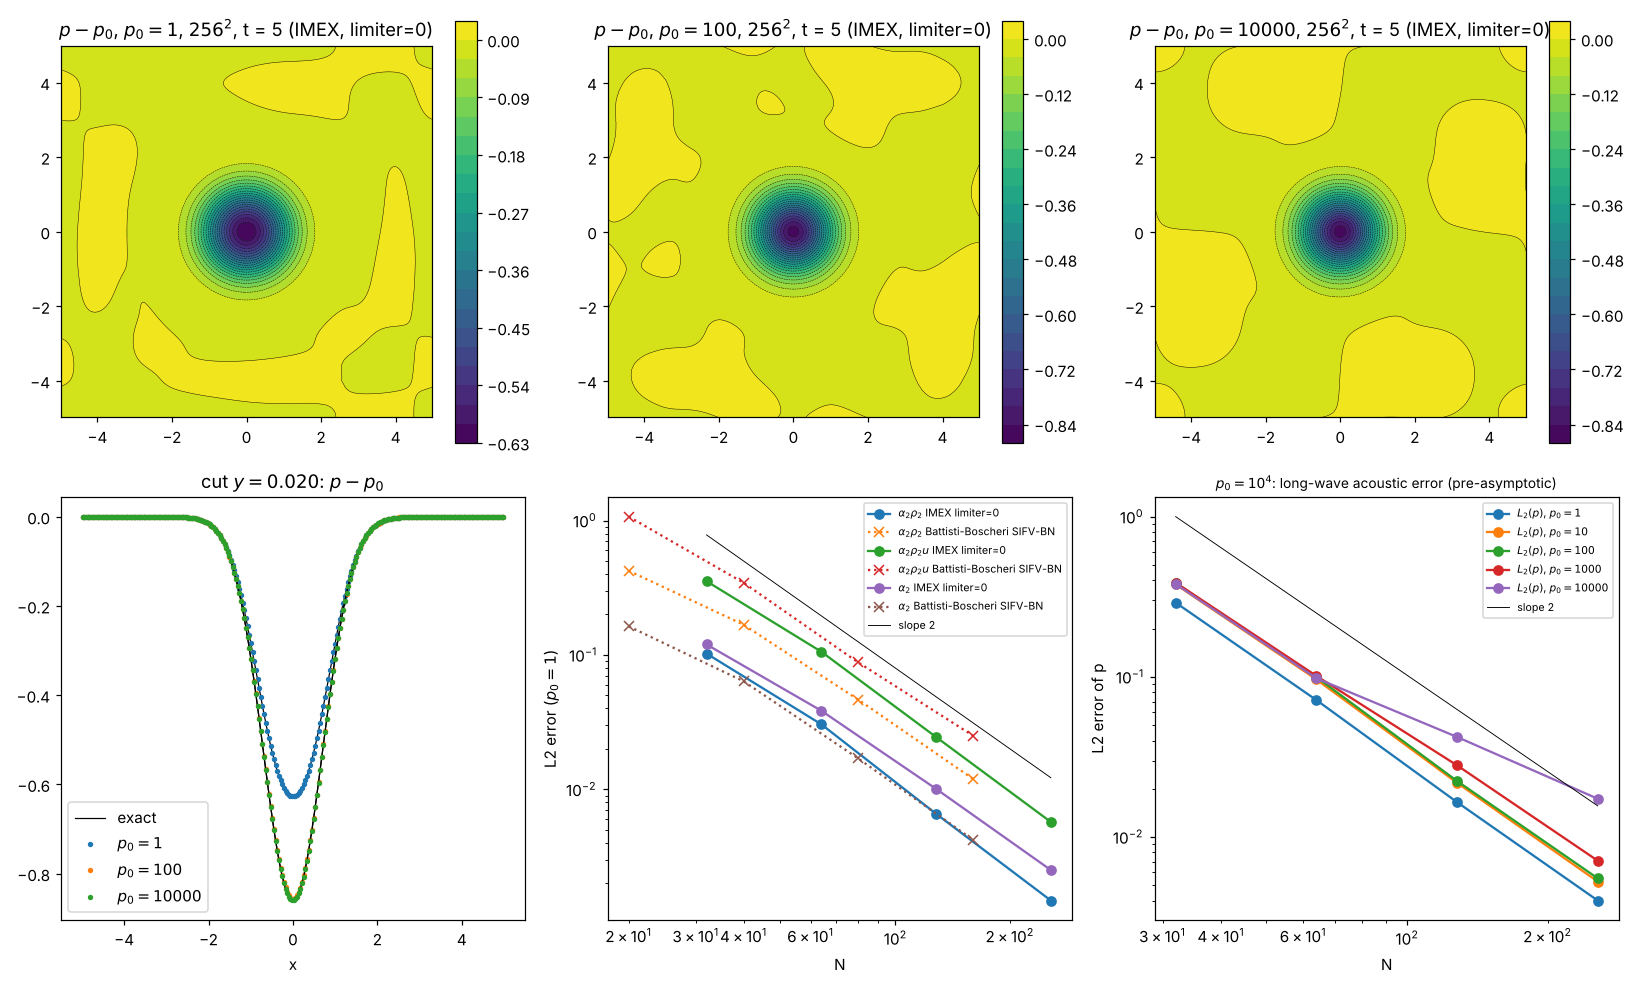
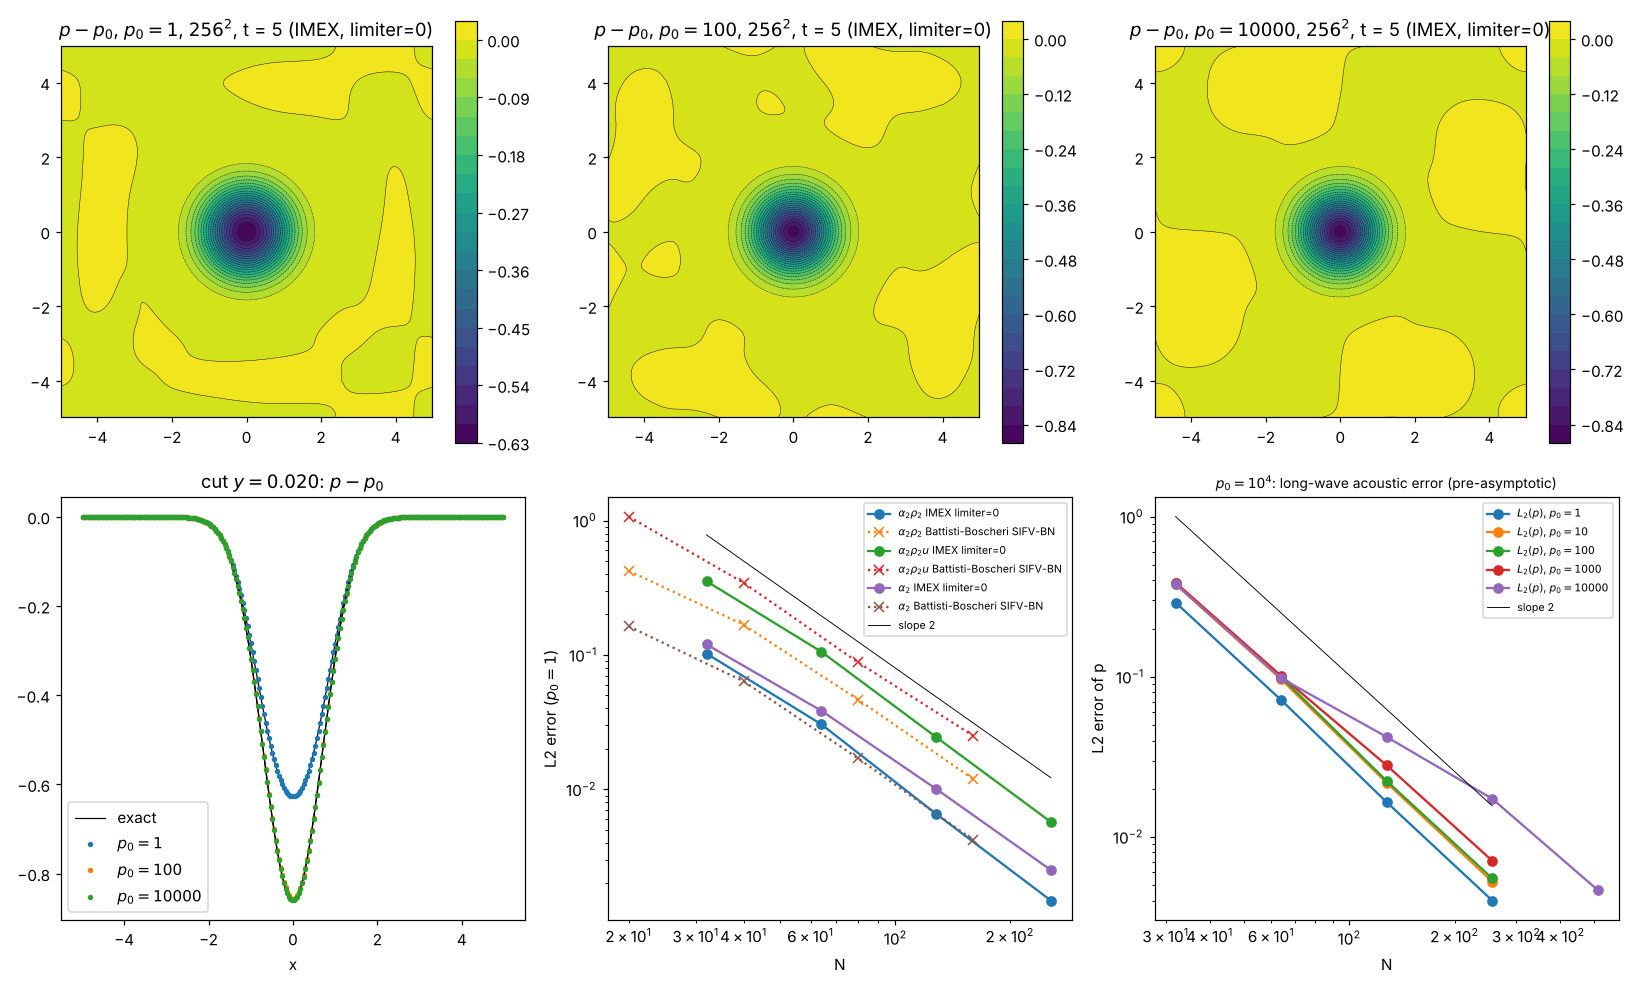
devlog V15: vortex convergence table incl. N=512 (p0=1e4 pressure order 1.89)
Claude-Session: https://claude.ai/code/session_01S1n65tsz3avypBq5vvRFNT

diff --git a/docs/devlog.md b/docs/devlog.md
@@ -1213,8 +1213,33 @@ AP 照旧（$M\to0$ 时解收敛，与 $M$ 无关）；动能保持率与 $u_\th
   - 一维存档：除 Pelanti 8.2.2 $pTg$ 外与 V14 的差别在 $10^{-5}$ 以下；8.2.2 $pTg$ 在 $t=77\,\mu$s 处 6 次拒绝（某级的 Newton 初猜在一格上不可容许，第 0 次迭代即失败，V14 的轨迹没有走到这里），平台误差 0.1985 → 0.2006。
   - 灵感来源：分段光滑方程组的 active-set（primal–dual active set，Hintermüller–Ito–Kunisch 2002）；闭合类型 `S.type` 本来就按级冻结。
 
-### 15.3 结果（最终代码，`limiter=0`）
-⟨表在 15.5⟩
+### 15.3 结果（最终代码 46c8002，`limiter=0`；所有算例 0 次拒绝、0 个 MOOD 步）
+| p0 | N | L2(a2r2) | ord | L2(a2r2u) | ord | L2(a2) | ord | L2(p) | ord | L2(u) | ord | steps |
+|---|---|---|---|---|---|---|---|---|---|---|---|---|
+| 1 | 32 | 1.0231e-01 | – | 3.5335e-01 | – | 1.1965e-01 | – | 2.9043e-01 | – | 4.4581e-01 | – | 428 |
+| 1 | 64 | 3.0466e-02 | 1.75 | 1.0563e-01 | 1.74 | 3.8441e-02 | 1.64 | 7.1578e-02 | 2.02 | 1.2892e-01 | 1.79 | 887 |
+| 1 | 128 | 6.5788e-03 | 2.21 | 2.4500e-02 | 2.11 | 1.0084e-02 | 1.93 | 1.6484e-02 | 2.12 | 3.2675e-02 | 1.98 | 1787 |
+| 1 | 256 | 1.4896e-03 | 2.14 | 5.7211e-03 | 2.10 | 2.5105e-03 | 2.01 | 4.0075e-03 | 2.04 | 8.1824e-03 | 2.00 | 3578 |
+| 10 | 32 | 9.5898e-02 | – | 3.9716e-01 | – | 1.1356e-01 | – | 3.7739e-01 | – | 4.5066e-01 | – | 429 |
+| 10 | 64 | 2.9969e-02 | 1.68 | 1.2178e-01 | 1.71 | 3.4799e-02 | 1.71 | 9.6298e-02 | 1.97 | 1.3165e-01 | 1.78 | 887 |
+| 10 | 128 | 7.9726e-03 | 1.91 | 3.0720e-02 | 1.99 | 9.1609e-03 | 1.93 | 2.1768e-02 | 2.15 | 3.3170e-02 | 1.99 | 1787 |
+| 10 | 256 | 2.0274e-03 | 1.98 | 7.5899e-03 | 2.02 | 2.3235e-03 | 1.98 | 5.2658e-03 | 2.05 | 8.2825e-03 | 2.00 | 3578 |
+| 100 | 32 | 1.1158e-01 | – | 4.1737e-01 | – | 1.1342e-01 | – | 3.8481e-01 | – | 4.4845e-01 | – | 431 |
+| 100 | 64 | 3.4271e-02 | 1.70 | 1.2763e-01 | 1.71 | 3.4779e-02 | 1.71 | 9.9575e-02 | 1.95 | 1.3130e-01 | 1.77 | 889 |
+| 100 | 128 | 9.0201e-03 | 1.93 | 3.2394e-02 | 1.98 | 9.1428e-03 | 1.93 | 2.2345e-02 | 2.16 | 3.3183e-02 | 1.98 | 1789 |
+| 100 | 256 | 2.2874e-03 | 1.98 | 8.0462e-03 | 2.01 | 2.3178e-03 | 1.98 | 5.5145e-03 | 2.02 | 8.2966e-03 | 2.00 | 3580 |
+| 1000 | 32 | 1.1321e-01 | – | 4.1975e-01 | – | 1.1340e-01 | – | 3.8695e-01 | – | 4.4831e-01 | – | 435 |
+| 1000 | 64 | 3.4739e-02 | 1.70 | 1.2818e-01 | 1.71 | 3.4790e-02 | 1.70 | 1.0133e-01 | 1.93 | 1.3120e-01 | 1.77 | 894 |
+| 1000 | 128 | 9.1291e-03 | 1.93 | 3.2548e-02 | 1.98 | 9.1412e-03 | 1.93 | 2.7992e-02 | 1.86 | 3.3182e-02 | 1.98 | 1793 |
+| 1000 | 256 | 2.3141e-03 | 1.98 | 8.0933e-03 | 2.01 | 2.3172e-03 | 1.98 | 7.1057e-03 | 1.98 | 8.2985e-03 | 2.00 | 3585 |
+| 10000 | 32 | 1.1344e-01 | – | 4.1826e-01 | – | 1.1346e-01 | – | 3.7928e-01 | – | 4.4718e-01 | – | 441 |
+| 10000 | 64 | 3.4773e-02 | 1.71 | 1.2807e-01 | 1.71 | 3.4778e-02 | 1.71 | 9.7933e-02 | 1.95 | 1.3115e-01 | 1.77 | 899 |
+| 10000 | 128 | 9.1395e-03 | 1.93 | 3.2555e-02 | 1.98 | 9.1407e-03 | 1.93 | 4.2096e-02 | 1.22 | 3.3172e-02 | 1.98 | 1799 |
+| 10000 | 256 | 2.3167e-03 | 1.98 | 8.0969e-03 | 2.01 | 2.3170e-03 | 1.98 | 1.7315e-02 | 1.28 | 8.2978e-03 | 2.00 | 3590 |
+| 10000 | 512 | 5.8204e-04 | 1.99 | 2.0158e-03 | 2.01 | 5.8211e-04 | 1.99 | 4.6588e-03 | 1.89 | 2.0759e-03 | 2.00 | 7169 |
+
+- 与论文表 1（$p_0=1$，$N=160$）：论文 $1.20\times10^{-2}$、$2.51\times10^{-2}$、$4.21\times10^{-3}$，阶 1.96、1.81、2.01；这里 $N=128$ 时 $6.6\times10^{-3}$、$2.5\times10^{-2}$、$1.0\times10^{-2}$，$N=256$ 时阶 2.14、2.10、2.01。论文动量的阶停在 1.8，这里没有。$\alpha$ 的分布与论文不同（论文未给），误差大小只能比量级。
+- 同一网格上 $p_0$ 从 10 到 $10^4$ 误差几乎不变（低马赫下精度不降）。图：`docs/figures/bb_vortex.png`。
 
 ### 15.4 $p_0=10^4$ 的压力阶约 1.3（你的问题“怎么办”）
 - 只有 $p_0=10^4$ 的 $L_2(p)$ 在 $64\to128\to256$ 上是 1.2–1.3，其余量都是 2。
@@ -1223,10 +1248,11 @@ AP 照旧（$M\to0$ 时解收敛，与 $M$ 无关）；动能保持率与 $u_\th
   - 机理：初始格平均速度的离散散度是 $O(h^2)$，低马赫时乘 $\rho c^2$（$1.4\times10^4$）：压力误差先随时间线性增长，大小 $\propto h^2$。之后它是长波声波，被格式的耗散衰减；耗散随 $h$ 增大，粗网格衰减得多（$t=0.01\to2.5$：$N=64$ 衰减 5.6 倍，$N=128$ 2.3 倍），所以 $t=5$ 时的比被压低。$h\to0$ 时衰减消失，比回到 4。
   - 声压 $\approx\rho c\,\delta u$：$p_0=10^3\to10^4$ 时误差放大 2.6 倍（$\sqrt{10}=3.2$）；换成速度只有 $1.7\times10^{-2}/118\approx1.4\times10^{-4}$，速度本身的误差 $8.3\times10^{-3}$，二阶。去掉起步斜坡（`ramp=0`）或 CFL 减半都不改变（$4.2\to5.1$、$4.2\times10^{-2}$）：不是时间误差。
   - 论文的 $p_0=10^4$ 行也反常（$\rho_s\phi_s$ 的阶 2.63）。
-- 处理：(1) $N=512$ 检验渐近阶（15.5）；(2) 若要粗网格上也二阶，需要离散良态初值（离散散度为零的速度、离散平衡的压力），这与论文的格平均初值不同，未做。
+- **检验：$N=512$ 时 $L_2(p)=4.66\times10^{-3}$，256 → 512 的阶 1.89**（其余量 1.99–2.01）：预测成立，是预渐近，格式是二阶的。
+- 处理：(1) 不改格式；(2) 若要粗网格上也二阶，需要离散良态初值（离散散度为零的速度、离散平衡的压力），这与论文的格平均初值不同，未做。
 
 ### 15.5 数据
-⟨待最终扫描完成后填⟩
+原始输出在 `run/vortex/`（不进仓库）；表由 `python3 tests/vortex_table.py run/vortex lim0` 生成。
 
 ## 汇总：所有机制错误与修改（不含代码 typo）
 
